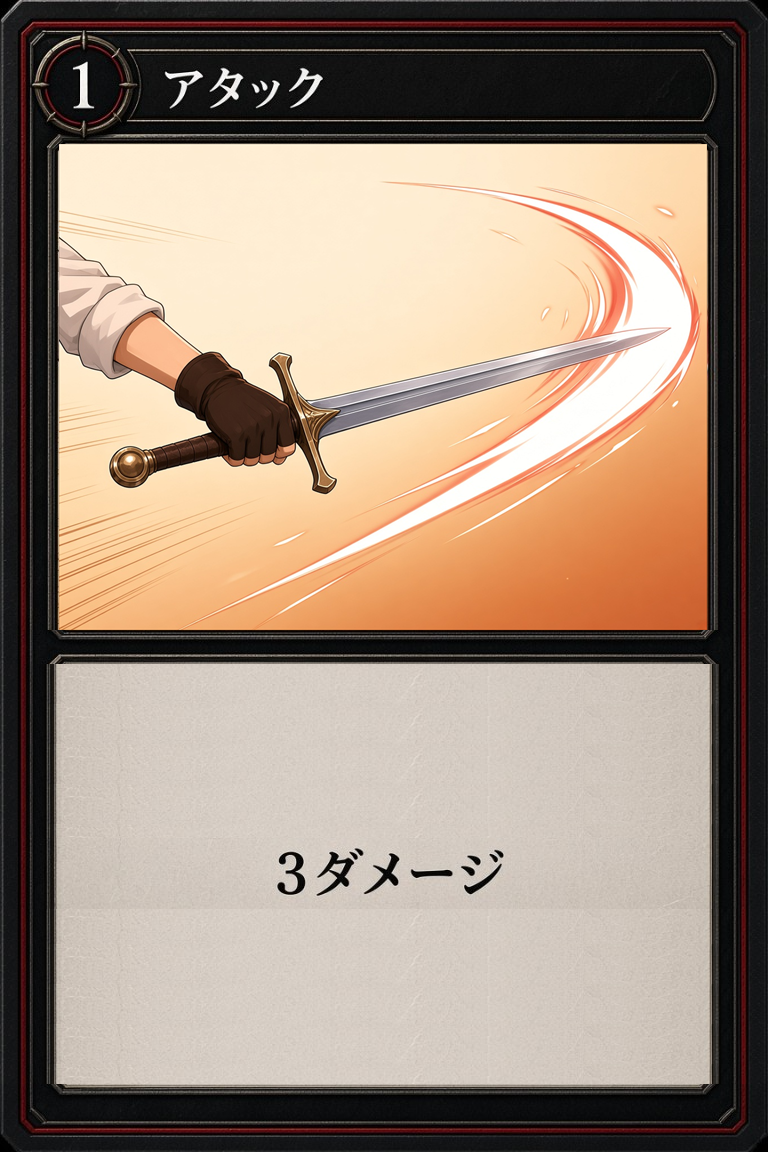
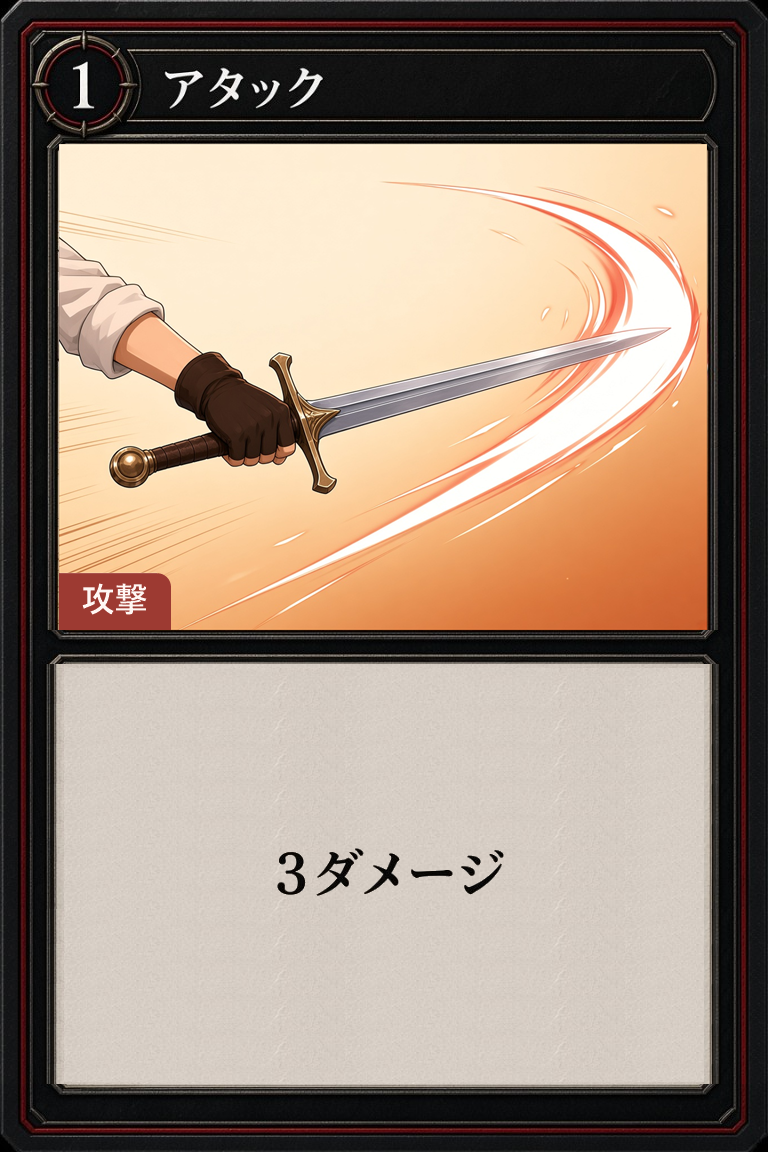
効果欄のムラを直し、絵柄の左下に攻撃を足す

Changed region(s): [[0.0625, 0.5, 0.25, 0.5625]]

diff --git a/index.html b/index.html
@@ -8709,7 +8709,7 @@
     function artZoomSide(name) {
       if (!name) return "";
       if (name === "card-style-master") {
-        return zoomSidePanel("攻撃（赤）", `<img class="art-zoom-img" src="card-style-master.png?v=2" alt="攻撃（赤）の正本。カード名はアタック">`);
+        return zoomSidePanel("攻撃（赤）", `<img class="art-zoom-img" src="card-style-master.png?v=3" alt="攻撃（赤）の正本。カード名はアタック">`);
       }
       const card = albumCatalog().find((item) => item.name === name) || { name, ...(CARDS[name] || WARRIOR[name] || COMMON[name] || {}) };
       const src = CARD_ART[name] || "";
@@ -9197,7 +9197,7 @@
       return BLANK_FRAMES.map((frame) => {
         if (frame.kind === "attack") {
           const on = albumZoom === "card-style-master";
-          return `<figure class="${on ? "on" : ""}"><button type="button" class="sheet-zoom-btn" data-art-zoom="card-style-master" aria-label="攻撃（赤）の正本を拡大" aria-pressed="${on ? "true" : "false"}"><img class="style-red" src="card-style-master.png?v=2" alt="攻撃（赤）の正本。カード名はアタック"></button><figcaption>${esc(frame.label)}</figcaption></figure>`;
+          return `<figure class="${on ? "on" : ""}"><button type="button" class="sheet-zoom-btn" data-art-zoom="card-style-master" aria-label="攻撃（赤）の正本を拡大" aria-pressed="${on ? "true" : "false"}"><img class="style-red" src="card-style-master.png?v=3" alt="攻撃（赤）の正本。カード名はアタック"></button><figcaption>${esc(frame.label)}</figcaption></figure>`;
         }
         const face = cardFace(
           { name: "カード名", cost: "0", text: "効果", stars: 3, kind: frame.kind === "foe" ? "skill" : frame.kind },
